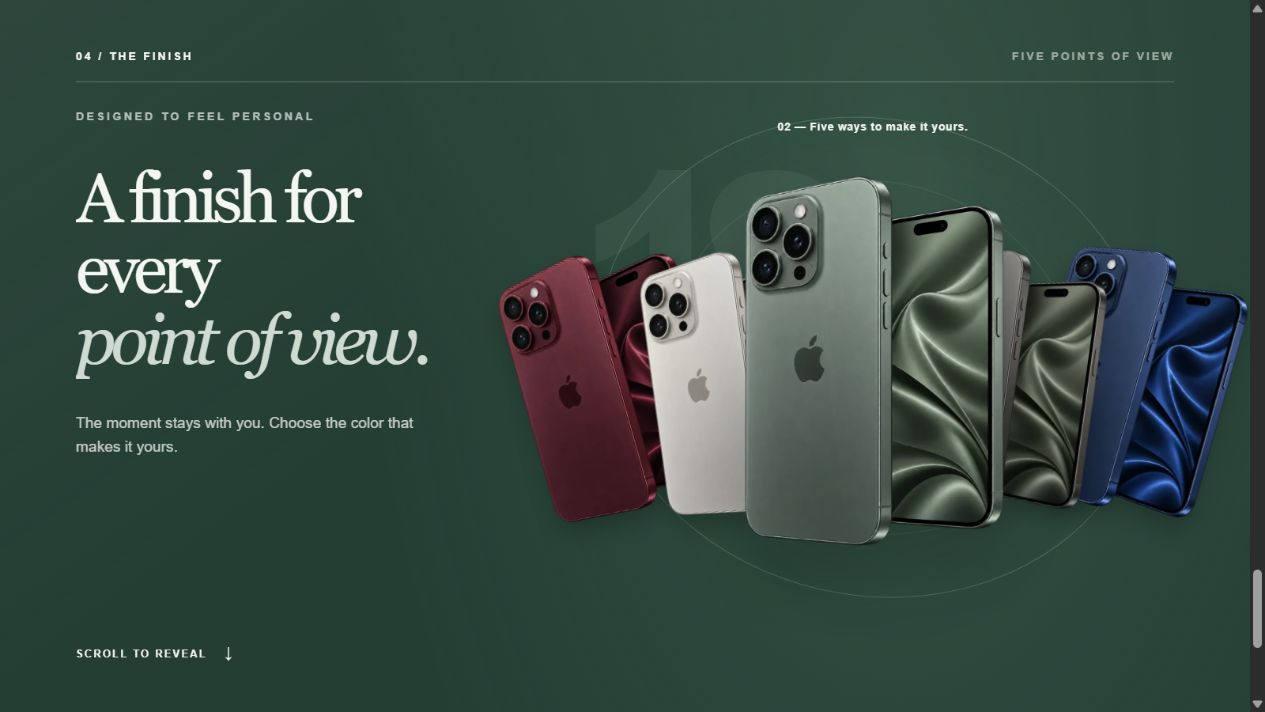
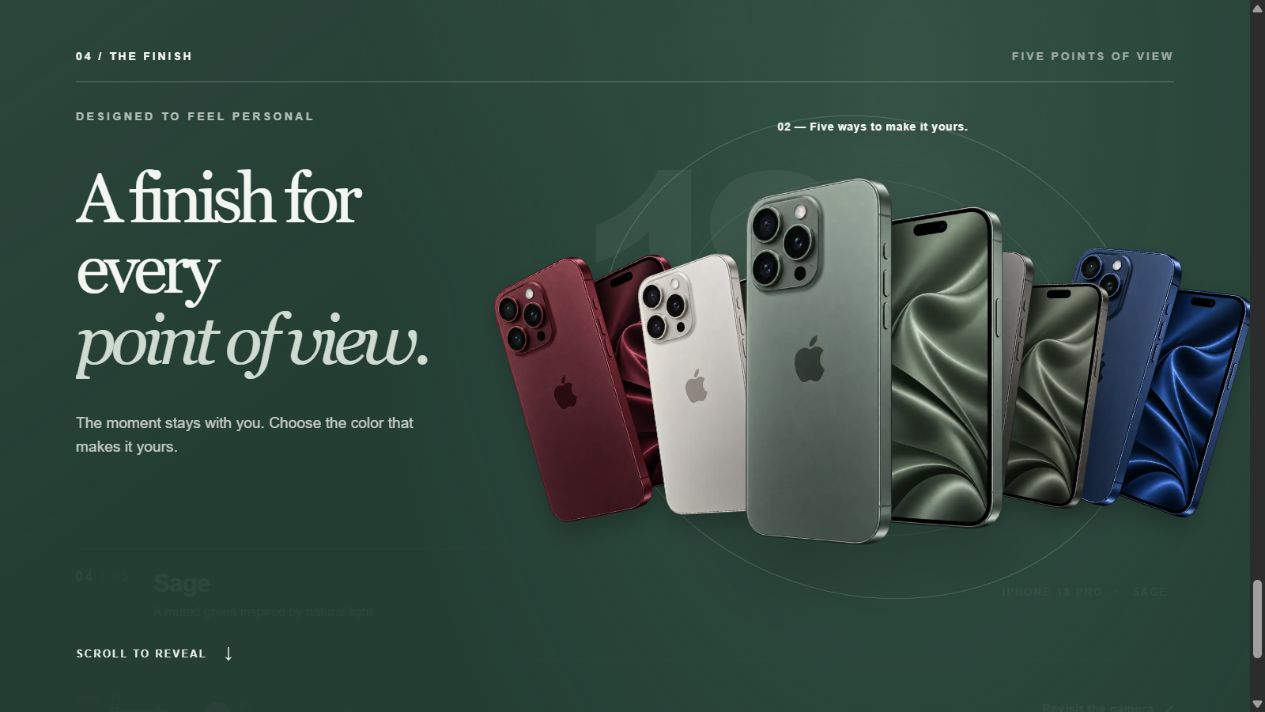
Smooth finish fan transitions and fix stacking order

diff --git a/app/finish-chapter.css b/app/finish-chapter.css
@@ -42,11 +42,13 @@
 .finish-chapter-orbit { position: absolute; width: min(92%, 690px); aspect-ratio: 1; border: 1px solid color-mix(in srgb, currentColor 18%, transparent); border-radius: 50%; transform: rotate(calc(-18deg + var(--finish-orbit-turn))) scaleY(.86); opacity: var(--finish-phone-opacity); }
 .finish-chapter-orbit::after { content: ''; position: absolute; inset: 13%; border: 1px solid color-mix(in srgb, currentColor 10%, transparent); border-radius: 50%; }
 .finish-chapter-monogram { position: absolute; top: 4%; left: 0; font-size: clamp(190px, 24vw, 410px); line-height: 1; font-weight: 650; letter-spacing: -.16em; opacity: .055; user-select: none; }
-.finish-chapter-device { position: absolute; inset: 0; opacity: var(--finish-phone-opacity); transform: translate3d(var(--finish-phone-x), var(--finish-phone-y), 0) rotate(var(--finish-phone-turn)) scale(var(--finish-phone-scale)); transform-origin: 50% 55%; will-change: transform, opacity; }
+.finish-chapter-device { position: absolute; z-index: 1; inset: 0; opacity: var(--finish-phone-opacity); transform: translate3d(var(--finish-phone-x), var(--finish-phone-y), 0) rotate(var(--finish-phone-turn)) scale(var(--finish-phone-scale)); transform-origin: 50% 55%; will-change: transform, opacity; }
 .finish-chapter-phone { object-fit: contain; object-position: center; filter: drop-shadow(0 38px 40px rgba(0, 0, 0, .24)); }
-.finish-chapter-lineup { position: absolute; inset: 0; opacity: var(--finish-spread); pointer-events: none; }
-.finish-chapter-lineup-phone { position: absolute; inset: 0; transform: translate3d(calc(var(--finish-slot) * var(--finish-spread) * 22%), calc(var(--finish-spread) * 5%), 0) rotate(calc(var(--finish-slot) * var(--finish-spread) * 8deg)) scale(calc(.72 - var(--finish-spread) * .14)); }
-.finish-chapter-lineup-phone img { object-fit: contain; filter: drop-shadow(0 20px 18px rgba(0,0,0,.24)); }
+/* Keep the companions behind the selected pair even at full opacity. */
+.finish-chapter-lineup { position: absolute; z-index: 0; inset: 0; pointer-events: none; }
+.finish-chapter-lineup-phone { position: absolute; inset: 0; opacity: var(--finish-visibility); transform: translate3d(calc(var(--finish-slot) * var(--finish-position) * 22%), calc(var(--finish-position) * 5%), 0) rotate(calc(var(--finish-slot) * var(--finish-position) * 8deg)) scale(calc(.72 - var(--finish-position) * .14)); will-change: transform, opacity; }
+.finish-chapter-lineup-phone img { object-fit: contain; opacity: 0; transition: opacity .3s ease; filter: drop-shadow(0 20px 18px rgba(0,0,0,.24)); }
+.finish-chapter-lineup-phone[data-loaded="true"] img { opacity: 1; }
 .finish-chapter-light,.finish-chapter-color-glint { position: absolute; inset: 0; pointer-events: none; mask-image: var(--finish-artwork); mask-position: center; mask-size: contain; mask-repeat: no-repeat; }
 .finish-chapter-light { opacity: var(--finish-light-opacity); }
 .finish-chapter-light::after,.finish-chapter-color-glint::after { content: ''; position: absolute; inset: -40%; background: linear-gradient(115deg, transparent 38%, rgba(255,244,222,.15) 44%, rgba(255,255,255,.9) 49%, rgba(255,245,225,.18) 54%, transparent 62%); }
@@ -106,7 +108,7 @@
   .finish-chapter-detail small { font-size: 10px; }
   .finish-chapter-visual-label { bottom: 2%; right: 4%; font-size: 8px; }
   .finish-chapter-beat { top: 0; font-size: 9px; }
-  .finish-chapter-lineup-phone { transform: translate3d(calc(var(--finish-slot) * var(--finish-spread) * 14%), calc(var(--finish-spread) * 5%), 0) rotate(calc(var(--finish-slot) * var(--finish-spread) * 7deg)) scale(calc(.64 - var(--finish-spread) * .14)); }
+  .finish-chapter-lineup-phone { transform: translate3d(calc(var(--finish-slot) * var(--finish-position) * 14%), calc(var(--finish-position) * 5%), 0) rotate(calc(var(--finish-slot) * var(--finish-position) * 7deg)) scale(calc(.64 - var(--finish-position) * .14)); }
   .finish-chapter-cue { left: 23px; bottom: 32px; }
   .finish-chapter-controls { align-items: stretch; flex-direction: column; gap: 12px; }
   .finish-chapter-swatches { display: grid; grid-template-columns: repeat(3, minmax(0, 1fr)); gap: 6px 12px; }

diff --git a/app/FinishChapter.tsx b/app/FinishChapter.tsx
@@ -70,7 +70,7 @@ export default function FinishChapter({ colors, active, outgoing, onSelect }: Fi
       const detail = compact
         ? smoothstep((progress - 0.28) / 0.1) * (1 - smoothstep((progress - 0.49) / 0.1))
         : smoothstep((progress - 0.29) / 0.11) * (1 - smoothstep((progress - 0.49) / 0.1));
-      const spread = smoothstep((progress - 0.5) / 0.15) * (1 - smoothstep((progress - 0.76) / 0.14));
+      const spread = smoothstep((progress - 0.38) / 0.32) * (1 - smoothstep((progress - 0.84) / 0.16));
       const light = smoothstep((progress - 0.25) / 0.08) * (1 - smoothstep((progress - 0.49) / 0.09));
       const controls = smoothstep((progress - (compact ? 0.68 : 0.69)) / (compact ? 0.23 : 0.22));
       const ready = reducedMotion.matches || progress >= (compact ? 0.8 : 0.74);
@@ -91,8 +91,20 @@ export default function FinishChapter({ colors, active, outgoing, onSelect }: Fi
       inner.style.setProperty("--finish-spread", spread.toFixed(4));
       inner.style.setProperty("--finish-light-opacity", (light * 0.22).toFixed(4));
       inner.style.setProperty("--finish-light-x", `${(-75 + smoothstep((progress - 0.26) / 0.31) * 150).toFixed(2)}%`);
-      inner.style.setProperty("--finish-caption-opacity", Math.max(detail, spread).toFixed(4));
+      const spreadCaption = smoothstep((progress - 0.48) / 0.18) * (1 - smoothstep((progress - 0.77) / 0.14));
+      inner.style.setProperty("--finish-caption-opacity", Math.max(detail, spreadCaption).toFixed(4));
       inner.dataset.beat = progress < 0.5 ? "light" : "color";
+      // Move out from behind the selected phone before becoming visible.
+      // On exit, disappear while still separated, before folding back in.
+      for (let index = 0; index < 4; index++) {
+        const outer = index === 0 || index === 3;
+        const unfold = smoothstep((progress - 0.38 - (outer ? 0.045 : 0)) / 0.3);
+        const fold = smoothstep((progress - 0.84) / 0.16);
+        const appear = smoothstep((progress - 0.44 - (outer ? 0.045 : 0)) / 0.22);
+        const disappear = smoothstep((progress - (outer ? 0.74 : 0.76)) / 0.13);
+        inner.style.setProperty(`--finish-position-${index}`, (unfold * (1 - fold)).toFixed(4));
+        inner.style.setProperty(`--finish-visibility-${index}`, (appear * (1 - disappear)).toFixed(4));
+      }
       for (let index = 0; index < 3; index++) {
         const line = smoothstep((progress - (compact ? 0 : 0.1) - index * 0.045) / 0.22);
         inner.style.setProperty(`--finish-line-${index}`, line.toFixed(4));
@@ -149,8 +161,8 @@ export default function FinishChapter({ colors, active, outgoing, onSelect }: Fi
             <span className="finish-chapter-monogram" aria-hidden="true">18</span>
             <div className="finish-chapter-lineup" aria-hidden="true">
               {colors.filter((_, index) => index !== active).map((color, index) => (
-                <div key={color.name} className="finish-chapter-lineup-phone" style={{ "--finish-slot": [-2, -1, 1, 2][index], zIndex: index === 0 || index === 3 ? 0 : 1 } as CSSProperties}>
-                  <Image src={color.image} alt="" fill sizes="(max-width: 700px) 55vw, 30vw" />
+                <div key={color.name} className="finish-chapter-lineup-phone" style={{ "--finish-slot": [-2, -1, 1, 2][index], "--finish-position": `var(--finish-position-${index}, 0)`, "--finish-visibility": `var(--finish-visibility-${index}, 0)`, zIndex: index === 0 || index === 3 ? 0 : 1 } as CSSProperties}>
+                  <Image src={color.image} alt="" fill sizes="(max-width: 700px) 55vw, 30vw" onLoad={(event) => { event.currentTarget.parentElement!.dataset.loaded = "true"; }} />
                 </div>
               ))}
             </div>

diff --git a/design/finish-chapter-storyboard.md b/design/finish-chapter-storyboard.md
@@ -9,7 +9,7 @@ Continue directly after the skateboard camera display. The next chapter returns 
 1. **Handoff.** The display phone and its camera controls leave at the normal scroll boundary. The finish chapter pins on desktop. Its rule, chapter label, progress line, and a faint phone pair establish the next scene.
 2. **Product reveal, 0–35%.** An oversized, slightly tilted phone pair pulls back and straightens. The headline reveals one masked line at a time. The product keeps its original proportions throughout.
 3. **Surface detail, 25–59%.** A soft diagonal highlight sweeps across the phone silhouette as the pair moves slightly closer. The surface-study callout enters, then recedes. The highlight uses the artwork's alpha mask, so light never becomes a rectangular overlay.
-4. **Color spread, 50–90%.** The four other finishes fan out behind the selected pair while it eases back. Inner companions sit above the outer ones so each color remains recognizable. A short caption introduces the five options. The spread then gathers back into the selected product.
+4. **Color spread, 38–100%.** The other finishes move outward from behind the selected pair, with the inner pair leading the outer pair. Their fade begins after separation, so they never appear as a stack over the main phone. On exit, they fade away while still spread apart, then return behind the selected product. Images also fade in after decoding if loading finishes late. A short caption introduces the five options.
 5. **Explore and hold, 69–100%.** The selected finish name and numbered swatches rise in with staggered offsets. Choosing a swatch updates the artwork, background, accent, and shared hero selection, with a brief glint over the new phone. A small link returns to the camera story. Scrolling upward reverses the reveal.
 
 ## Reference
